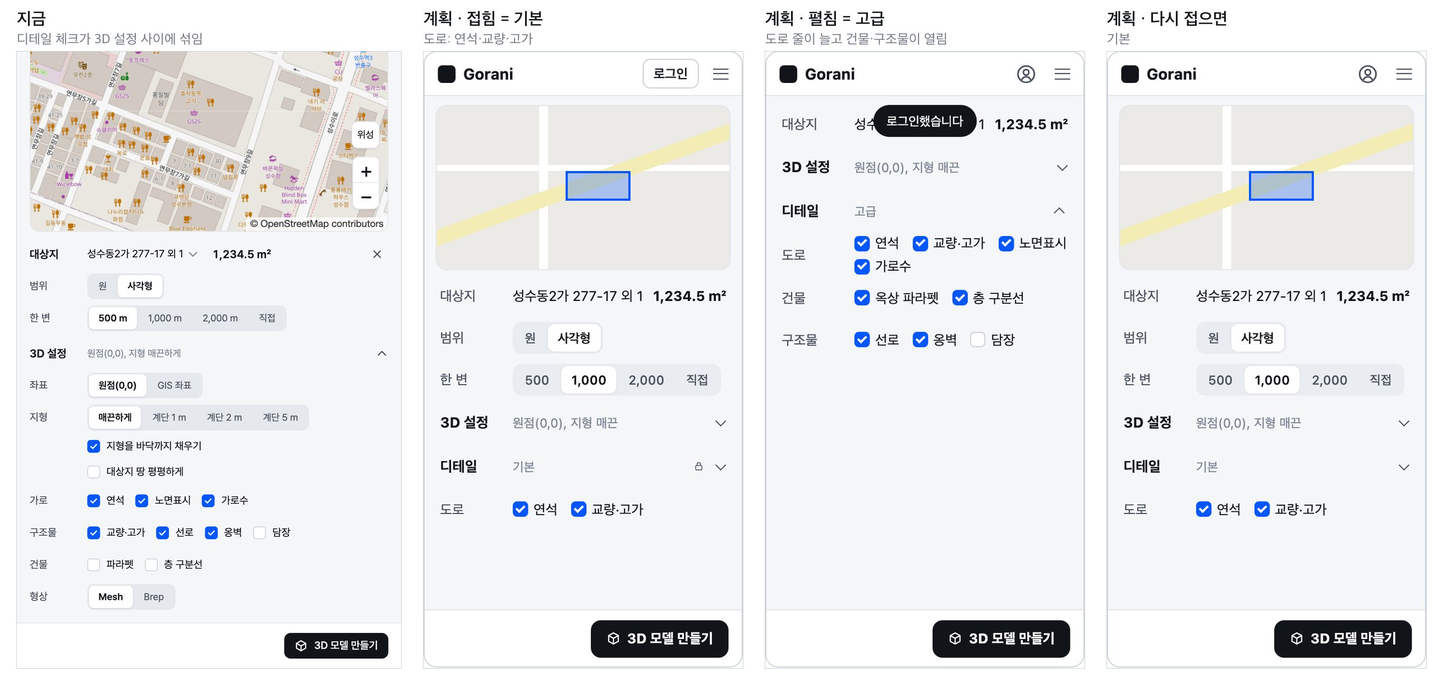
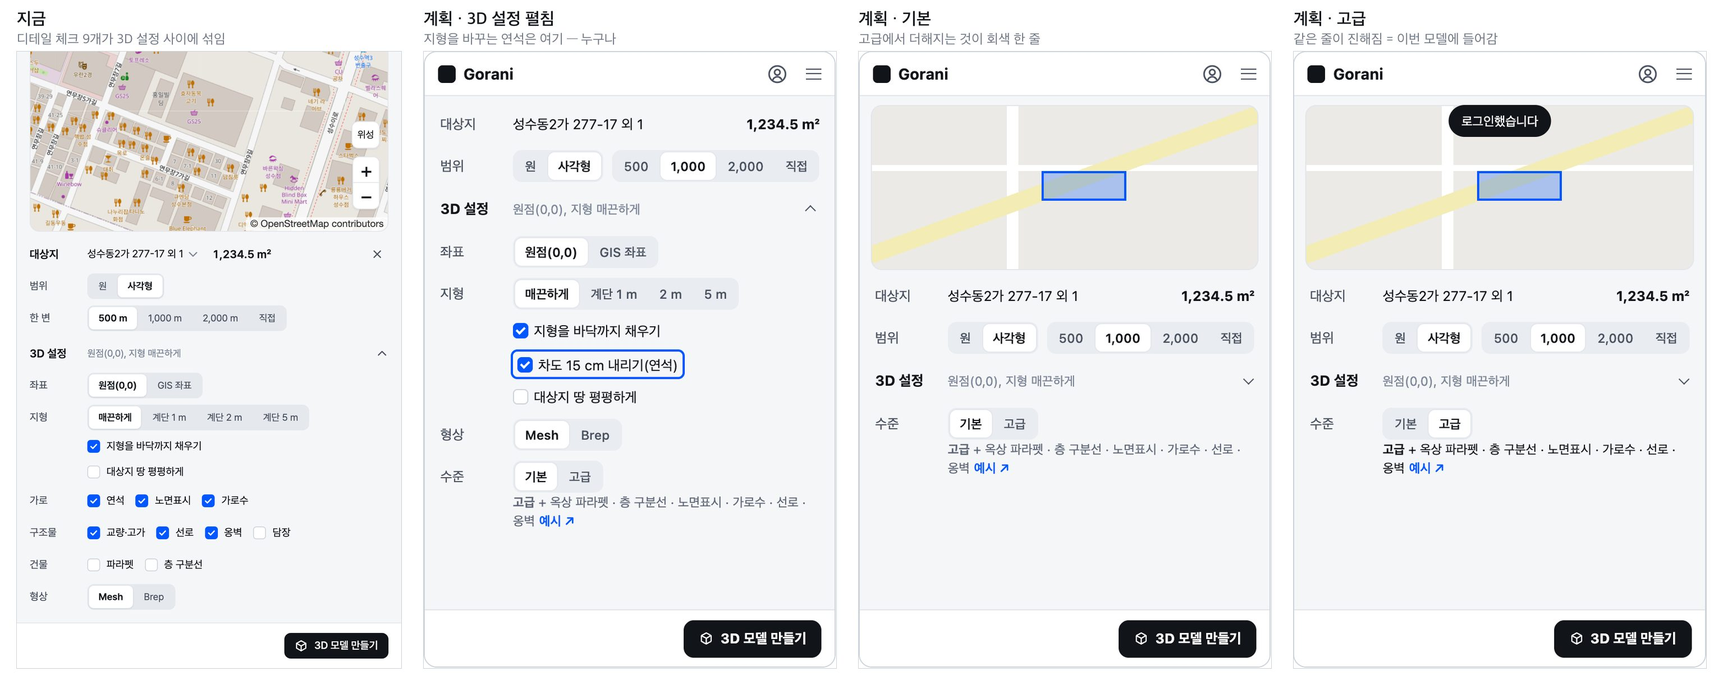
docs: 회원 계획 — 수준 [기본 | 고급](영어 Basic | Advanced) 한 줄과 고급에서 더해지는 것 한 줄, 항목 체크·묶음·담장 뺌, 지형을 바꾸는 연석은 3D 설정 선택 사항, 범위 한 줄, 와이어프레임 v20

diff --git a/docs/preview/account/wireframe.html b/docs/preview/account/wireframe.html
@@ -218,6 +218,23 @@
   .pn .hrow .st.on { color: #111418; }
 </style><style>
   .pn .dlk { color: #5f6878; display: inline-flex; margin-right: 2px; }
+</style><style>
+  .pn .seg b.lkd { color: #5f6878; }
+  .pn .what { margin: -4px 0 6px calc(var(--lbl) + 8px); font-size: 11.5px; line-height: 17px; color: #5f6878; }
+  .pn .what.on { color: #111418; }
+  .pn .what b { font-weight: 700; }
+  .pn .what a { color: #0057ff; font-weight: 600; text-decoration: none; margin-left: 4px; white-space: nowrap; }
+  .pn .chk1 { display: flex; align-items: center; gap: 6px; min-height: 30px; margin-left: calc(var(--lbl) + 8px); }
+  .pn .chk1 .new { box-shadow: 0 0 0 2px #0057ff; border-radius: 4px; padding: 1px 4px; }
+  .web { border: 1px solid #cdd3db; border-radius: 12px; background: #fff; overflow: hidden; color: #111418; font-size: 12.5px; }
+  .web .bar { padding: 6px 10px; font-size: 11px; color: #7d8798; background: #f5f6f8; border-bottom: 1px solid #e3e6eb; }
+  .web .in { padding: 14px; }
+  .web h4 { margin: 0 0 4px; font-size: 15px; }
+  .web .ba { display: grid; grid-template-columns: 1fr 1fr; gap: 8px; margin: 10px 0; }
+  .web .ba div { height: 120px; border-radius: 8px; display: grid; place-items: end start; padding: 6px 8px; color: #fff; font-size: 11px; font-weight: 700; background: linear-gradient(135deg, #cfd4db, #aab2bd); }
+  .web .ba div + div { background: radial-gradient(circle at 22% 70%, #4f9d5d 0 5px, transparent 6px), radial-gradient(circle at 36% 64%, #4f9d5d 0 5px, transparent 6px), radial-gradient(circle at 50% 58%, #4f9d5d 0 5px, transparent 6px), repeating-linear-gradient(90deg, transparent 0 9px, #fff 9px 12px) 0 80%/100% 5px no-repeat, linear-gradient(135deg, #cfd4db, #aab2bd); }
+  .web .li { font-size: 12px; color: #4a5260; line-height: 19px; }
+  .web .btnx { display: inline-flex; margin-top: 10px; height: 32px; align-items: center; padding: 0 12px; border-radius: 8px; background: #111418; color: #fff; font-weight: 700; font-size: 12px; }
 </style></head>
 <body>
 <svg width="0" height="0" style="position:absolute">
@@ -226,4 +243,4 @@
   <symbol id="cube" viewBox="0 0 16 16"><path d="M8 1.8l5.4 3v6.4L8 14.2l-5.4-3V4.8z M2.6 4.8L8 7.8l5.4-3 M8 7.8v6.4" fill="none" stroke="currentColor" stroke-width="1.4" stroke-linejoin="round"/></symbol>
 </svg>
 
-<h1>Gorani 회원·고급 디테일 — 와이어프레임 v19</h1><p class="lead">꾸밈과 안내 문구 없이 지금 패널의 줄·단추 꼴만 씁니다. 손님은 머리줄 [로그인], 회원은 그 자리에 계정 기호. 디테일은 3D 설정과 같은 접는 줄 — 펼치면 고급(늘어남), 접으면 기본. 요약에 기본·고급이 늘 보입니다. 로딩·결과 화면은 지금 그대로.</p><h2>A. 고급 디테일</h2><div class="flow"><div class="step"><p class="cap">A1 손님 · 지도 화면</p><div class="pn"><div class="hd"><span class="logo"></span><span class="wm">Gorani</span><span class="login">로그인</span><span class="burger"></span></div><div class="map"><i></i></div><div class="tray" style="padding-top:4px"><div class="trow"><span class="lbl">대상지</span><span class="val">성수동2가 277-17 외 1</span><span class="area">1,234.5 m²</span></div><div class="trow"><span class="lbl">범위</span><span class="seg"><b>원</b><b class="on">사각형</b></span></div><div class="trow"><span class="lbl">한 변</span><span class="seg"><b>500</b><b class="on">1,000</b><b>2,000</b><b>직접</b></span></div><div class="sec"><span class="t">3D 설정</span><span class="s">원점(0,0), 지형 매끈</span><span class="chev"></span></div><div class="sec"><span class="t">디테일</span><span class="s">기본</span><span class="dlk"><svg width="10" height="10"><use href="#lock"/></svg></span><span class="chev"></span></div><div class="trow"><span class="lbl">도로</span><span class="chks"><span class="ck"><span class="box on"></span>연석</span><span class="ck"><span class="box on"></span>교량·고가</span></span></div></div><div class="foot"><span class="mk"><svg width="13" height="13"><use href="#cube"/></svg>3D 모델 만들기</span></div></div><p class="note">디테일은 3D 설정과 같은 접는 줄. 접힘 = 기본(도로: 연석·교량·고가). 손님은 ▾ 앞에 자물쇠.</p></div><div class="step"><p class="cap">A2 손님이 펼치면</p><div class="pn"><div class="hd"><span class="logo"></span><span class="wm">Gorani</span><span class="login">로그인</span><span class="burger"></span></div><div class="map"><i></i></div><div class="tray" style="padding-top:4px"><div class="trow"><span class="lbl">대상지</span><span class="val">성수동2가 277-17 외 1</span><span class="area">1,234.5 m²</span></div><div class="trow"><span class="lbl">범위</span><span class="seg"><b>원</b><b class="on">사각형</b></span></div><div class="trow"><span class="lbl">한 변</span><span class="seg"><b>500</b><b class="on">1,000</b><b>2,000</b><b>직접</b></span></div><div class="sec"><span class="t">3D 설정</span><span class="s">원점(0,0), 지형 매끈</span><span class="chev"></span></div><div class="sec"><span class="t">디테일</span><span class="s">기본</span><span class="dlk"><svg width="10" height="10"><use href="#lock"/></svg></span><span class="chev"></span></div><div class="trow"><span class="lbl">도로</span><span class="chks"><span class="ck"><span class="box on"></span>연석</span><span class="ck"><span class="box on"></span>교량·고가</span></span></div></div><div class="foot"><span class="mk"><svg width="13" height="13"><use href="#cube"/></svg>3D 모델 만들기</span></div><div class="veil"><div class="dlg min"><span class="x">✕</span><h4>로그인</h4><div class="pbtn"><span class="gg"></span>구글로 로그인</div><div class="sbtn">로그인 없이 써 보기 (3회)</div></div></div></div><p class="note">펼치기 = 고급이라 로그인 창.</p></div><div class="step"><p class="cap">A3 브라우저에서 로그인</p><div class="pn"><div class="hd"><span class="logo"></span><span class="wm">Gorani</span><span class="login">로그인</span><span class="burger"></span></div><div class="map"><i></i></div><div class="tray" style="padding-top:4px"><div class="trow"><span class="lbl">대상지</span><span class="val">성수동2가 277-17 외 1</span><span class="area">1,234.5 m²</span></div><div class="trow"><span class="lbl">범위</span><span class="seg"><b>원</b><b class="on">사각형</b></span></div><div class="trow"><span class="lbl">한 변</span><span class="seg"><b>500</b><b class="on">1,000</b><b>2,000</b><b>직접</b></span></div><div class="sec"><span class="t">3D 설정</span><span class="s">원점(0,0), 지형 매끈</span><span class="chev"></span></div><div class="sec"><span class="t">디테일</span><span class="s">기본</span><span class="dlk"><svg width="10" height="10"><use href="#lock"/></svg></span><span class="chev"></span></div><div class="trow"><span class="lbl">도로</span><span class="chks"><span class="ck"><span class="box on"></span>연석</span><span class="ck"><span class="box on"></span>교량·고가</span></span></div></div><div class="foot"><span class="mk"><svg width="13" height="13"><use href="#cube"/></svg>3D 모델 만들기</span></div><div class="veil"><div class="dlg min" style="text-align:center"><div class="spin"></div><h4 style="margin:0 0 4px">브라우저에서 로그인 중</h4><div class="sbtn">취소</div></div></div></div><p class="note">로그인은 브라우저가 합니다.</p></div><div class="step"><p class="cap">A4 돌아오면 — 펼쳐진 채로(고급)</p><div class="pn"><div class="hd"><span class="logo"></span><span class="wm">Gorani</span><span class="acct"><svg width="18" height="18" viewBox="0 0 16 16" fill="none" stroke="currentColor" stroke-width="1.3"><circle cx="8" cy="8" r="6.6"/><circle cx="8" cy="6.5" r="2.2"/><path d="M4.4 12.4c.9-1.5 2.1-2.3 3.6-2.3s2.7.8 3.6 2.3" stroke-linecap="round"/></svg></span><span class="burger"></span></div><div class="tray" style="padding-top:6px"><div class="trow"><span class="lbl">대상지</span><span class="val">성수동2가 277-17 외 1</span><span class="area">1,234.5 m²</span></div><div class="sec"><span class="t">3D 설정</span><span class="s">원점(0,0), 지형 매끈</span><span class="chev"></span></div><div class="sec"><span class="t">디테일</span><span class="s">고급</span><span class="chev up"></span></div><div class="trow"><span class="lbl">도로</span><span class="chks"><span class="ck"><span class="box on"></span>연석</span><span class="ck"><span class="box on"></span>교량·고가</span><span class="ck"><span class="box on"></span>노면표시</span><span class="ck"><span class="box on"></span>가로수</span></span></div><div class="trow"><span class="lbl">건물</span><span class="chks"><span class="ck"><span class="box on"></span>옥상 파라펫</span><span class="ck"><span class="box on"></span>층 구분선</span></span></div><div class="trow"><span class="lbl">구조물</span><span class="chks"><span class="ck"><span class="box on"></span>선로</span><span class="ck"><span class="box on"></span>옹벽</span><span class="ck"><span class="box"></span>담장</span></span></div></div><div class="foot"><span class="mk"><svg width="13" height="13"><use href="#cube"/></svg>3D 모델 만들기</span></div><div class="toast">로그인했습니다</div></div><p class="note">줄 요약이 '고급'으로. 도로 줄에 노면표시·가로수가 붙고 건물·구조물 줄이 열립니다.</p></div><div class="step"><p class="cap">A5 회원이 접으면 — 기본</p><div class="pn"><div class="hd"><span class="logo"></span><span class="wm">Gorani</span><span class="acct"><svg width="18" height="18" viewBox="0 0 16 16" fill="none" stroke="currentColor" stroke-width="1.3"><circle cx="8" cy="8" r="6.6"/><circle cx="8" cy="6.5" r="2.2"/><path d="M4.4 12.4c.9-1.5 2.1-2.3 3.6-2.3s2.7.8 3.6 2.3" stroke-linecap="round"/></svg></span><span class="burger"></span></div><div class="map"><i></i></div><div class="tray" style="padding-top:4px"><div class="trow"><span class="lbl">대상지</span><span class="val">성수동2가 277-17 외 1</span><span class="area">1,234.5 m²</span></div><div class="trow"><span class="lbl">범위</span><span class="seg"><b>원</b><b class="on">사각형</b></span></div><div class="trow"><span class="lbl">한 변</span><span class="seg"><b>500</b><b class="on">1,000</b><b>2,000</b><b>직접</b></span></div><div class="sec"><span class="t">3D 설정</span><span class="s">원점(0,0), 지형 매끈</span><span class="chev"></span></div><div class="sec"><span class="t">디테일</span><span class="s">기본</span><span class="chev"></span></div><div class="trow"><span class="lbl">도로</span><span class="chks"><span class="ck"><span class="box on"></span>연석</span><span class="ck"><span class="box on"></span>교량·고가</span></span></div></div><div class="foot"><span class="mk"><svg width="13" height="13"><use href="#cube"/></svg>3D 모델 만들기</span></div></div><p class="note">▴를 눌러 접으면 기본으로(요약 '기본'). 펼침 = 고급, 접힘 = 기본.</p></div></div><h2>B. 처음 만들기·로딩·완료</h2><div class="flow"><div class="step"><p class="cap">B1 처음 [3D 모델 만들기] (한 번만)</p><div class="pn"><div class="hd"><span class="logo"></span><span class="wm">Gorani</span><span class="login">로그인</span><span class="burger"></span></div><div class="map"><i></i></div><div class="tray" style="padding-top:4px"><div class="trow"><span class="lbl">대상지</span><span class="val">성수동2가 277-17 외 1</span><span class="area">1,234.5 m²</span></div><div class="trow"><span class="lbl">범위</span><span class="seg"><b>원</b><b class="on">사각형</b></span></div><div class="trow"><span class="lbl">한 변</span><span class="seg"><b>500</b><b class="on">1,000</b><b>2,000</b><b>직접</b></span></div><div class="sec"><span class="t">3D 설정</span><span class="s">원점(0,0), 지형 매끈</span><span class="chev"></span></div><div class="sec"><span class="t">디테일</span><span class="s">기본</span><span class="dlk"><svg width="10" height="10"><use href="#lock"/></svg></span><span class="chev"></span></div><div class="trow"><span class="lbl">도로</span><span class="chks"><span class="ck"><span class="box on"></span>연석</span><span class="ck"><span class="box on"></span>교량·고가</span></span></div></div><div class="foot"><span class="mk"><svg width="13" height="13"><use href="#cube"/></svg>3D 모델 만들기</span></div><div class="veil"><div class="dlg min"><span class="x">✕</span><h4>로그인</h4><div class="pbtn"><span class="gg"></span>구글로 로그인</div><div class="sbtn">로그인 없이 만들기</div></div></div></div><p class="note">같은 로그인 창. 고르면 바로 만듭니다.</p></div><div class="step"><p class="cap">B2 로딩 · 지금 화면 그대로</p><div class="pn"><div class="hd"><span class="logo"></span><span class="wm">Gorani</span><span class="login off">로그인</span><span class="burger"></span></div><div class="runcard"><div class="top"><h4>3D 모델 만드는 중</h4><span class="cancel"><i></i>취소</span></div><div class="meta">성수동2가 277-17 외 1, 1,234.5 m², 사각형 한 변 2,000 m · 기본</div><div class="trk"><div class="fl" style="width:50%"></div><span class="rn" style="left:calc((100% - 48px) * 0.5)"><svg xmlns="http://www.w3.org/2000/svg" width="48" height="36" viewBox="0 0 64 48"><g fill="none" stroke="currentColor" stroke-linecap="round" stroke-linejoin="round"><path d="M21.00 25.60L15.89 34.19" stroke-width="5"/><path d="M15.89 34.19L2.92 35.15" stroke-width="2.6"/><path d="M41.00 27.60L46.03 35.06" stroke-width="3.6"/><path d="M46.03 35.06L52.74 45.01" stroke-width="2.4"/><path d="M21.00 25.60L14.84 33.48" stroke-width="5"/><path d="M14.84 33.48L2.97 38.77" stroke-width="2.6"/><path d="M41.00 27.60L47.02 34.29" stroke-width="3.6"/><path d="M47.02 34.29L55.05 43.21" stroke-width="2.4"/></g><g fill="currentColor" transform="translate(0 1.60)"><path d="M13 21C13 14 20 11 27 13C33 15 39 17 44 19C49 21 49 29 43 30.5C35 32 26 31 19 29.5C15 28.5 13 25 13 21Z"/><path d="M40 21C43 15 47 11 51 9L56 13C52 17 48 23 46 29Z"/><path d="M49 7C53 4.5 58 6.5 62 11C63.5 13 62.5 15 60.5 15H54C50.5 15 48 11.5 49 7Z"/><path d="M51 8C49 3 45.5 0 42 0.5C42 4 45 8 49.5 11Z"/><path d="M14 17C12 14.5 11 12.5 11.5 11C13.5 12 15 14 16 16Z"/></g></svg></span></div><div class="pm"><span><b>50</b> %</span><span>0:14</span></div><ul class="ph"><li><span class="okk">✓</span>건물과 지형 불러오기<span class="det">건물 1,842동</span></li><li class="run"><span class="dot"></span>3D 모델 만들기</li><li class="pend"><span class="ring"></span>Rhino 파일에 넣기</li></ul><div class="rnote">Rhino 안에서 만들어 Rhino 화면이 잠깐씩 멈출 수 있습니다.</div></div><div class="logline">▸ 로그 자세히 보기 (1줄)</div></div><p class="note">만드는 동안 패널은 엔진을 기다려 다른 단추를 받지 않습니다 — 머리줄 [로그인]도 잠깁니다.</p></div><div class="step"><p class="cap">B3 생성 완료 — 지금과 같음</p><div class="pn"><div class="hd"><span class="logo"></span><span class="wm">Gorani</span><span class="login">로그인</span><span class="burger"></span></div><div class="card2"><h4>3D 모델 생성 완료 <span class="m">0:08</span><span class="sp"></span><span class="btnw" style="margin:0">폴더 열기</span></h4><div class="m">성수동2가 277-17 외 1, 1,234.5 m²</div></div><div class="card2"><h4>2D 자료도 만들까요?<span class="sp"></span><span class="btnw" style="margin:0">2D 자료 만들기</span></h4><div class="opt2"><span>▢</span><span>베이스맵<small>Illustrator 레이어 도면 (.ai)</small></span></div><div class="opt2"><span>▦</span><span>다이어그램<small>현황도와 분석도 (.svg, .ai)</small></span></div><div class="opt2"><span>▤</span><span>조서<small>필지와 건축물 표 (엑셀 CSV)</small></span></div></div></div><p class="note">결과 화면은 그대로. 손님이면 머리줄 [로그인]만.</p></div></div><h2>C. 생성 기록 — 회원만</h2><div class="flow"><div class="step"><p class="cap">C1 손님 · 지도(대상지 없음)</p><div class="pn"><div class="hd"><span class="logo"></span><span class="wm">Gorani</span><span class="login">로그인</span><span class="burger"></span></div><div class="map"></div><div class="tray"><div class="rech">최근 결과<span class="sp"></span></div><div class="rec"><span class="nm">성수동2가 277-17 외 1</span><span class="mt">3D, 2D · 11-14</span></div><div class="rec"><span class="nm">을지로3가 구역</span><span class="mt">3D · 11-14</span></div><div class="rec"><span class="nm">Shibuya, Tokyo</span><span class="mt">3D · 11-10</span></div></div><div class="foot"><span class="mk" style="opacity:.45"><svg width="13" height="13"><use href="#cube"/></svg>3D 모델 만들기</span></div></div><p class="note">손님에게는 생성 기록이 없습니다. '최근 결과'(지금 기능)는 그대로.</p></div><div class="step"><p class="cap">C2 회원 · 지도(대상지 없음)</p><div class="pn"><div class="hd"><span class="logo"></span><span class="wm">Gorani</span><span class="acct"><svg width="18" height="18" viewBox="0 0 16 16" fill="none" stroke="currentColor" stroke-width="1.3"><circle cx="8" cy="8" r="6.6"/><circle cx="8" cy="6.5" r="2.2"/><path d="M4.4 12.4c.9-1.5 2.1-2.3 3.6-2.3s2.7.8 3.6 2.3" stroke-linecap="round"/></svg></span><span class="burger"></span></div><div class="map"></div><div class="tray"><div class="rech">최근 결과<span class="sp"></span><a>생성 기록 ›</a></div><div class="rec"><span class="nm">성수동2가 277-17 외 1</span><span class="mt">3D, 2D · 11-14</span></div><div class="rec"><span class="nm">을지로3가 구역</span><span class="mt">3D · 11-14</span></div><div class="rec"><span class="nm">Shibuya, Tokyo</span><span class="mt">3D · 11-10</span></div></div><div class="foot"><span class="mk" style="opacity:.45"><svg width="13" height="13"><use href="#cube"/></svg>3D 모델 만들기</span></div></div><p class="note">회원에게만 '생성 기록 ›'.</p></div><div class="step"><p class="cap">C3 회원 · 생성 기록</p><div class="pn"><div class="hd"><span class="logo"></span><span class="wm">Gorani</span><span class="acct"><svg width="18" height="18" viewBox="0 0 16 16" fill="none" stroke="currentColor" stroke-width="1.3"><circle cx="8" cy="8" r="6.6"/><circle cx="8" cy="6.5" r="2.2"/><path d="M4.4 12.4c.9-1.5 2.1-2.3 3.6-2.3s2.7.8 3.6 2.3" stroke-linecap="round"/></svg></span><span class="burger"></span></div><div class="scr"><span class="back">← 지도로</span><span class="ttl">생성 기록</span></div><div class="segw" style="margin-top:10px"><span class="seg"><b class="on">전체</b><b>★</b></span></div><div class="grpd">오늘</div><div class="hrow"><span class="th"><i></i></span><span class="tx"><div class="nm">성수동2가 277-17 외 1</div><div class="mt">15:02 · 사각형 1 km · 고급</div></span><span class="st on">★</span></div><div class="hrow"><span class="th"><i></i></span><span class="tx"><div class="nm">을지로3가 구역</div><div class="mt">11:40 · 사각형 2 km · 기본</div></span><span class="st">☆</span></div><div class="grpd">이번 주</div><div class="hrow"><span class="th"><i></i></span><span class="tx"><div class="nm">연남동 239-5</div><div class="mt">11-09 · 원 500 m · 고급</div></span><span class="st">☆</span></div><div class="hrow"><span class="th"><i></i></span><span class="tx"><div class="nm">Shibuya, Tokyo</div><div class="mt">11-10 · 사각형 1 km · 기본</div></span><span class="st on">★</span></div></div><p class="note">검색 없음. 기록마다 오른쪽 ☆로 즐겨찾기, 위 [전체 | ★]로 거르기. PC 구분 없이 아이디 하나에 모은 기록.</p></div></div><h2>D. 계정</h2><div class="flow"><div class="step"><p class="cap">D1 회원 · 계정 기호를 누르면</p><div class="pn"><div class="hd"><span class="logo"></span><span class="wm">Gorani</span><span class="acct on"><svg width="18" height="18" viewBox="0 0 16 16" fill="none" stroke="currentColor" stroke-width="1.3"><circle cx="8" cy="8" r="6.6"/><circle cx="8" cy="6.5" r="2.2"/><path d="M4.4 12.4c.9-1.5 2.1-2.3 3.6-2.3s2.7.8 3.6 2.3" stroke-linecap="round"/></svg></span><span class="burger"></span></div><div class="map"><i></i></div><div class="tray" style="padding-top:4px"><div class="trow"><span class="lbl">대상지</span><span class="val">성수동2가 277-17 외 1</span><span class="area">1,234.5 m²</span></div><div class="trow"><span class="lbl">범위</span><span class="seg"><b>원</b><b class="on">사각형</b></span></div><div class="trow"><span class="lbl">한 변</span><span class="seg"><b>500</b><b class="on">1,000</b><b>2,000</b><b>직접</b></span></div><div class="sec"><span class="t">3D 설정</span><span class="s">원점(0,0), 지형 매끈</span><span class="chev"></span></div><div class="sec"><span class="t">디테일</span><span class="s">기본</span><span class="chev"></span></div><div class="trow"><span class="lbl">도로</span><span class="chks"><span class="ck"><span class="box on"></span>연석</span><span class="ck"><span class="box on"></span>교량·고가</span></span></div></div><div class="foot"><span class="mk"><svg width="13" height="13"><use href="#cube"/></svg>3D 모델 만들기</span></div><div class="acpop"><div class="r"><span class="v">name@gmail.com</span><span class="btnw" style="margin:0">로그아웃</span></div><div class="r"><span class="v">생성 기록</span><span class="m">23 ›</span></div></div></div><p class="note">메일·[로그아웃]과 생성 기록. 더보기 메뉴(설정·도움)는 지금과 같습니다.</p></div></div></body></html>
+<h1>Gorani 회원·고급 모델 — 와이어프레임 v20</h1><p class="lead">꾸밈과 안내 문구 없이 지금 패널의 줄·단추 꼴만 씁니다. 손님은 머리줄 [로그인], 회원은 그 자리에 계정 기호. 3D 설정 아래 수준 [기본 | 고급](영어 Basic | Advanced) 한 줄과, 고급에서 더해지는 것을 적은 한 줄. 항목 체크·묶음은 없고 만든 뒤 레이어로 끕니다. 지형 자체를 바꾸는 것(연석)은 3D 설정 안 선택 사항. 범위는 한 줄로 합쳐 트레이는 지금처럼 4줄.</p><h2>A. 수준 — 고급</h2><div class="flow"><div class="step"><p class="cap">A1 손님 · 지도 화면</p><div class="pn"><div class="hd"><span class="logo"></span><span class="wm">Gorani</span><span class="login">로그인</span><span class="burger"></span></div><div class="map"><i></i></div><div class="tray" style="padding-top:4px"><div class="trow"><span class="lbl">대상지</span><span class="val">성수동2가 277-17 외 1</span><span class="area">1,234.5 m²</span></div><div class="trow"><span class="lbl">범위</span><span class="seg"><b>원</b><b class="on">사각형</b></span><span class="seg"><b>500</b><b class="on">1,000</b><b>2,000</b><b>직접</b></span></div><div class="sec"><span class="t">3D 설정</span><span class="s">원점(0,0), 지형 매끈하게</span><span class="chev"></span></div><div class="trow"><span class="lbl">수준</span><span class="seg"><b class="on">기본</b><b class="lkd"><svg width="10" height="10"><use href="#lock"/></svg>고급</b></span></div><div class="what"><b>고급</b> + 옥상 파라펫 · 층 구분선 · 노면표시 · 가로수 · 선로 · 옹벽<a>예시 ↗</a></div></div><div class="foot"><span class="mk"><svg width="13" height="13"><use href="#cube"/></svg>3D 모델 만들기</span></div></div><p class="note">수준 [기본 | 고급]. 아래 한 줄에 고급에서 더해지는 것 — 회색 = 이번 모델에 안 들어감. 손님은 고급에 자물쇠.</p></div><div class="step"><p class="cap">A2 손님이 고급을 누르면</p><div class="pn"><div class="hd"><span class="logo"></span><span class="wm">Gorani</span><span class="login">로그인</span><span class="burger"></span></div><div class="map"><i></i></div><div class="tray" style="padding-top:4px"><div class="trow"><span class="lbl">대상지</span><span class="val">성수동2가 277-17 외 1</span><span class="area">1,234.5 m²</span></div><div class="trow"><span class="lbl">범위</span><span class="seg"><b>원</b><b class="on">사각형</b></span><span class="seg"><b>500</b><b class="on">1,000</b><b>2,000</b><b>직접</b></span></div><div class="sec"><span class="t">3D 설정</span><span class="s">원점(0,0), 지형 매끈하게</span><span class="chev"></span></div><div class="trow"><span class="lbl">수준</span><span class="seg"><b class="on">기본</b><b class="lkd"><svg width="10" height="10"><use href="#lock"/></svg>고급</b></span></div><div class="what"><b>고급</b> + 옥상 파라펫 · 층 구분선 · 노면표시 · 가로수 · 선로 · 옹벽<a>예시 ↗</a></div></div><div class="foot"><span class="mk"><svg width="13" height="13"><use href="#cube"/></svg>3D 모델 만들기</span></div><div class="veil"><div class="dlg min"><span class="x">✕</span><h4>로그인</h4><div class="pbtn"><span class="gg"></span>구글로 로그인</div><div class="sbtn">로그인 없이 써 보기 (3회)</div></div></div></div><p class="note">로그인 창.</p></div><div class="step"><p class="cap">A3 브라우저에서 로그인</p><div class="pn"><div class="hd"><span class="logo"></span><span class="wm">Gorani</span><span class="login">로그인</span><span class="burger"></span></div><div class="map"><i></i></div><div class="tray" style="padding-top:4px"><div class="trow"><span class="lbl">대상지</span><span class="val">성수동2가 277-17 외 1</span><span class="area">1,234.5 m²</span></div><div class="trow"><span class="lbl">범위</span><span class="seg"><b>원</b><b class="on">사각형</b></span><span class="seg"><b>500</b><b class="on">1,000</b><b>2,000</b><b>직접</b></span></div><div class="sec"><span class="t">3D 설정</span><span class="s">원점(0,0), 지형 매끈하게</span><span class="chev"></span></div><div class="trow"><span class="lbl">수준</span><span class="seg"><b class="on">기본</b><b class="lkd"><svg width="10" height="10"><use href="#lock"/></svg>고급</b></span></div><div class="what"><b>고급</b> + 옥상 파라펫 · 층 구분선 · 노면표시 · 가로수 · 선로 · 옹벽<a>예시 ↗</a></div></div><div class="foot"><span class="mk"><svg width="13" height="13"><use href="#cube"/></svg>3D 모델 만들기</span></div><div class="veil"><div class="dlg min" style="text-align:center"><div class="spin"></div><h4 style="margin:0 0 4px">브라우저에서 로그인 중</h4><div class="sbtn">취소</div></div></div></div><p class="note">로그인은 브라우저가 합니다.</p></div><div class="step"><p class="cap">A4 돌아오면 — 고급</p><div class="pn"><div class="hd"><span class="logo"></span><span class="wm">Gorani</span><span class="acct"><svg width="18" height="18" viewBox="0 0 16 16" fill="none" stroke="currentColor" stroke-width="1.3"><circle cx="8" cy="8" r="6.6"/><circle cx="8" cy="6.5" r="2.2"/><path d="M4.4 12.4c.9-1.5 2.1-2.3 3.6-2.3s2.7.8 3.6 2.3" stroke-linecap="round"/></svg></span><span class="burger"></span></div><div class="map"><i></i></div><div class="tray" style="padding-top:4px"><div class="trow"><span class="lbl">대상지</span><span class="val">성수동2가 277-17 외 1</span><span class="area">1,234.5 m²</span></div><div class="trow"><span class="lbl">범위</span><span class="seg"><b>원</b><b class="on">사각형</b></span><span class="seg"><b>500</b><b class="on">1,000</b><b>2,000</b><b>직접</b></span></div><div class="sec"><span class="t">3D 설정</span><span class="s">원점(0,0), 지형 매끈하게</span><span class="chev"></span></div><div class="trow"><span class="lbl">수준</span><span class="seg"><b>기본</b><b class="on">고급</b></span></div><div class="what on"><b>고급</b> + 옥상 파라펫 · 층 구분선 · 노면표시 · 가로수 · 선로 · 옹벽<a>예시 ↗</a></div></div><div class="foot"><span class="mk"><svg width="13" height="13"><use href="#cube"/></svg>3D 모델 만들기</span></div><div class="toast">로그인했습니다</div></div><p class="note">고급이 눌린 채로. 아래 줄이 진해짐 = 이번 모델에 들어감.</p></div><div class="step"><p class="cap">A5 회원 · 기본</p><div class="pn"><div class="hd"><span class="logo"></span><span class="wm">Gorani</span><span class="acct"><svg width="18" height="18" viewBox="0 0 16 16" fill="none" stroke="currentColor" stroke-width="1.3"><circle cx="8" cy="8" r="6.6"/><circle cx="8" cy="6.5" r="2.2"/><path d="M4.4 12.4c.9-1.5 2.1-2.3 3.6-2.3s2.7.8 3.6 2.3" stroke-linecap="round"/></svg></span><span class="burger"></span></div><div class="map"><i></i></div><div class="tray" style="padding-top:4px"><div class="trow"><span class="lbl">대상지</span><span class="val">성수동2가 277-17 외 1</span><span class="area">1,234.5 m²</span></div><div class="trow"><span class="lbl">범위</span><span class="seg"><b>원</b><b class="on">사각형</b></span><span class="seg"><b>500</b><b class="on">1,000</b><b>2,000</b><b>직접</b></span></div><div class="sec"><span class="t">3D 설정</span><span class="s">원점(0,0), 지형 매끈하게</span><span class="chev"></span></div><div class="trow"><span class="lbl">수준</span><span class="seg"><b class="on">기본</b><b>고급</b></span></div><div class="what"><b>고급</b> + 옥상 파라펫 · 층 구분선 · 노면표시 · 가로수 · 선로 · 옹벽<a>예시 ↗</a></div></div><div class="foot"><span class="mk"><svg width="13" height="13"><use href="#cube"/></svg>3D 모델 만들기</span></div></div><p class="note">회원은 자물쇠 없음. 기본이면 같은 줄이 회색.</p></div><div class="step"><p class="cap">A6 웹 — 예시 ↗</p><div class="web"><div class="bar">gorani.site/#detail — 패널의 '예시 ↗'</div><div class="in"><h4>고급 모델</h4><div class="ba"><div>기본</div><div>고급</div></div><div class="li">옥상 파라펫 · 층 구분선 — 매스가 건물처럼<br>노면표시 · 가로수 — 서울 전역, 그 밖은 OSM<br>선로 · 옹벽 — 철도변·경사지</div><span class="btnx">구글로 무료 로그인</span></div></div><p class="note">그림 비교는 웹에. 인스타·홈 '디테일' 칸과 같은 그림.</p></div></div><h2>B. 3D 설정 — 지형을 바꾸는 선택 사항</h2><div class="flow"><div class="step"><p class="cap">B1 3D 설정을 펼치면</p><div class="pn"><div class="hd"><span class="logo"></span><span class="wm">Gorani</span><span class="acct"><svg width="18" height="18" viewBox="0 0 16 16" fill="none" stroke="currentColor" stroke-width="1.3"><circle cx="8" cy="8" r="6.6"/><circle cx="8" cy="6.5" r="2.2"/><path d="M4.4 12.4c.9-1.5 2.1-2.3 3.6-2.3s2.7.8 3.6 2.3" stroke-linecap="round"/></svg></span><span class="burger"></span></div><div class="tray" style="padding-top:6px"><div class="trow"><span class="lbl">대상지</span><span class="val">성수동2가 277-17 외 1</span><span class="area">1,234.5 m²</span></div><div class="trow"><span class="lbl">범위</span><span class="seg"><b>원</b><b class="on">사각형</b></span><span class="seg"><b>500</b><b class="on">1,000</b><b>2,000</b><b>직접</b></span></div><div class="sec"><span class="t">3D 설정</span><span class="s">원점(0,0), 지형 매끈하게</span><span class="chev up"></span></div><div class="trow"><span class="lbl">좌표</span><span class="seg"><b class="on">원점(0,0)</b><b>GIS 좌표</b></span></div><div class="trow"><span class="lbl">지형</span><span class="seg"><b class="on">매끈하게</b><b>계단 1 m</b><b>2 m</b><b>5 m</b></span></div><div class="chk1"><span class="ck"><span class="box on"></span>지형을 바닥까지 채우기</span></div><div class="chk1"><span class="new"><span class="ck"><span class="box on"></span>차도 15 cm 내리기(연석)</span></span></div><div class="chk1"><span class="ck"><span class="box"></span>대상지 땅 평평하게</span></div><div class="trow"><span class="lbl">형상</span><span class="seg"><b class="on">Mesh</b><b>Brep</b></span></div><div class="trow"><span class="lbl">수준</span><span class="seg"><b class="on">기본</b><b>고급</b></span></div><div class="what"><b>고급</b> + 옥상 파라펫 · 층 구분선 · 노면표시 · 가로수 · 선로 · 옹벽<a>예시 ↗</a></div></div><div class="foot"><span class="mk"><svg width="13" height="13"><use href="#cube"/></svg>3D 모델 만들기</span></div></div><p class="note">지형 자체를 바꾸는 것은 수준과 따로, 누구나 고릅니다. 연석(차도 15 cm 내림)이 여기로(파란 테두리 = 새로 온 줄).</p></div></div><h2>C. 처음 만들기·로딩·완료</h2><div class="flow"><div class="step"><p class="cap">C1 처음 [3D 모델 만들기] (한 번만)</p><div class="pn"><div class="hd"><span class="logo"></span><span class="wm">Gorani</span><span class="login">로그인</span><span class="burger"></span></div><div class="map"><i></i></div><div class="tray" style="padding-top:4px"><div class="trow"><span class="lbl">대상지</span><span class="val">성수동2가 277-17 외 1</span><span class="area">1,234.5 m²</span></div><div class="trow"><span class="lbl">범위</span><span class="seg"><b>원</b><b class="on">사각형</b></span><span class="seg"><b>500</b><b class="on">1,000</b><b>2,000</b><b>직접</b></span></div><div class="sec"><span class="t">3D 설정</span><span class="s">원점(0,0), 지형 매끈하게</span><span class="chev"></span></div><div class="trow"><span class="lbl">수준</span><span class="seg"><b class="on">기본</b><b class="lkd"><svg width="10" height="10"><use href="#lock"/></svg>고급</b></span></div><div class="what"><b>고급</b> + 옥상 파라펫 · 층 구분선 · 노면표시 · 가로수 · 선로 · 옹벽<a>예시 ↗</a></div></div><div class="foot"><span class="mk"><svg width="13" height="13"><use href="#cube"/></svg>3D 모델 만들기</span></div><div class="veil"><div class="dlg min"><span class="x">✕</span><h4>로그인</h4><div class="pbtn"><span class="gg"></span>구글로 로그인</div><div class="sbtn">로그인 없이 만들기</div></div></div></div><p class="note">같은 로그인 창. 고르면 바로 만듭니다.</p></div><div class="step"><p class="cap">C2 로딩 · 손님</p><div class="pn"><div class="hd"><span class="logo"></span><span class="wm">Gorani</span><span class="login off">로그인</span><span class="burger"></span></div><div class="runcard"><div class="top"><h4>3D 모델 만드는 중</h4><span class="cancel"><i></i>취소</span></div><div class="meta">성수동2가 277-17 외 1, 1,234.5 m², 사각형 한 변 2,000 m</div><div class="trk"><div class="fl" style="width:50%"></div><span class="rn" style="left:calc((100% - 48px) * 0.5)"><svg xmlns="http://www.w3.org/2000/svg" width="48" height="36" viewBox="0 0 64 48"><g fill="none" stroke="currentColor" stroke-linecap="round" stroke-linejoin="round"><path d="M21.00 25.60L15.89 34.19" stroke-width="5"/><path d="M15.89 34.19L2.92 35.15" stroke-width="2.6"/><path d="M41.00 27.60L46.03 35.06" stroke-width="3.6"/><path d="M46.03 35.06L52.74 45.01" stroke-width="2.4"/><path d="M21.00 25.60L14.84 33.48" stroke-width="5"/><path d="M14.84 33.48L2.97 38.77" stroke-width="2.6"/><path d="M41.00 27.60L47.02 34.29" stroke-width="3.6"/><path d="M47.02 34.29L55.05 43.21" stroke-width="2.4"/></g><g fill="currentColor" transform="translate(0 1.60)"><path d="M13 21C13 14 20 11 27 13C33 15 39 17 44 19C49 21 49 29 43 30.5C35 32 26 31 19 29.5C15 28.5 13 25 13 21Z"/><path d="M40 21C43 15 47 11 51 9L56 13C52 17 48 23 46 29Z"/><path d="M49 7C53 4.5 58 6.5 62 11C63.5 13 62.5 15 60.5 15H54C50.5 15 48 11.5 49 7Z"/><path d="M51 8C49 3 45.5 0 42 0.5C42 4 45 8 49.5 11Z"/><path d="M14 17C12 14.5 11 12.5 11.5 11C13.5 12 15 14 16 16Z"/></g></svg></span></div><div class="pm"><span><b>50</b> %</span><span>0:14</span></div><ul class="ph"><li><span class="okk">✓</span>건물과 지형 불러오기<span class="det">건물 1,842동</span></li><li class="run"><span class="dot"></span>3D 모델 만들기</li><li class="pend"><span class="ring"></span>Rhino 파일에 넣기</li></ul><div class="rnote">Rhino 안에서 만들어 Rhino 화면이 잠깐씩 멈출 수 있습니다.</div></div><div class="logline">▸ 로그 자세히 보기 (1줄)</div></div><p class="note">지금 화면 그대로. 만드는 동안 머리줄 [로그인]은 잠깁니다.</p></div><div class="step"><p class="cap">C3 로딩 · 고급</p><div class="pn"><div class="hd"><span class="logo"></span><span class="wm">Gorani</span><span class="acct"><svg width="18" height="18" viewBox="0 0 16 16" fill="none" stroke="currentColor" stroke-width="1.3"><circle cx="8" cy="8" r="6.6"/><circle cx="8" cy="6.5" r="2.2"/><path d="M4.4 12.4c.9-1.5 2.1-2.3 3.6-2.3s2.7.8 3.6 2.3" stroke-linecap="round"/></svg></span><span class="burger"></span></div><div class="runcard"><div class="top"><h4>3D 모델 만드는 중</h4><span class="cancel"><i></i>취소</span></div><div class="meta">성수동2가 277-17 외 1, 1,234.5 m², 사각형 한 변 1,000 m · 고급 모델</div><div class="trk"><div class="fl" style="width:50%"></div><span class="rn" style="left:calc((100% - 48px) * 0.5)"><svg xmlns="http://www.w3.org/2000/svg" width="48" height="36" viewBox="0 0 64 48"><g fill="none" stroke="currentColor" stroke-linecap="round" stroke-linejoin="round"><path d="M21.00 25.60L15.89 34.19" stroke-width="5"/><path d="M15.89 34.19L2.92 35.15" stroke-width="2.6"/><path d="M41.00 27.60L46.03 35.06" stroke-width="3.6"/><path d="M46.03 35.06L52.74 45.01" stroke-width="2.4"/><path d="M21.00 25.60L14.84 33.48" stroke-width="5"/><path d="M14.84 33.48L2.97 38.77" stroke-width="2.6"/><path d="M41.00 27.60L47.02 34.29" stroke-width="3.6"/><path d="M47.02 34.29L55.05 43.21" stroke-width="2.4"/></g><g fill="currentColor" transform="translate(0 1.60)"><path d="M13 21C13 14 20 11 27 13C33 15 39 17 44 19C49 21 49 29 43 30.5C35 32 26 31 19 29.5C15 28.5 13 25 13 21Z"/><path d="M40 21C43 15 47 11 51 9L56 13C52 17 48 23 46 29Z"/><path d="M49 7C53 4.5 58 6.5 62 11C63.5 13 62.5 15 60.5 15H54C50.5 15 48 11.5 49 7Z"/><path d="M51 8C49 3 45.5 0 42 0.5C42 4 45 8 49.5 11Z"/><path d="M14 17C12 14.5 11 12.5 11.5 11C13.5 12 15 14 16 16Z"/></g></svg></span></div><div class="pm"><span><b>50</b> %</span><span>0:14</span></div><ul class="ph"><li><span class="okk">✓</span>건물과 지형 불러오기<span class="det">건물 1,842동</span></li><li class="run"><span class="dot"></span>3D 모델 만들기</li><li class="pend"><span class="ring"></span>Rhino 파일에 넣기</li></ul><div class="rnote">Rhino 안에서 만들어 Rhino 화면이 잠깐씩 멈출 수 있습니다.</div></div><div class="logline">▸ 로그 자세히 보기 (1줄)</div></div><p class="note">카드 윗줄 끝 '고급 모델'. 기본이면 쓰지 않습니다.</p></div><div class="step"><p class="cap">C4 생성 완료 · 고급</p><div class="pn"><div class="hd"><span class="logo"></span><span class="wm">Gorani</span><span class="acct"><svg width="18" height="18" viewBox="0 0 16 16" fill="none" stroke="currentColor" stroke-width="1.3"><circle cx="8" cy="8" r="6.6"/><circle cx="8" cy="6.5" r="2.2"/><path d="M4.4 12.4c.9-1.5 2.1-2.3 3.6-2.3s2.7.8 3.6 2.3" stroke-linecap="round"/></svg></span><span class="burger"></span></div><div class="card2"><h4>3D 모델 생성 완료 <span class="m">0:08</span><span class="sp"></span><span class="btnw" style="margin:0">폴더 열기</span></h4><div class="m">성수동2가 277-17 외 1, 1,234.5 m² · 고급 모델</div></div><div class="card2"><h4>2D 자료도 만들까요?<span class="sp"></span><span class="btnw" style="margin:0">2D 자료 만들기</span></h4><div class="opt2"><span>▢</span><span>베이스맵<small>Illustrator 레이어 도면 (.ai)</small></span></div><div class="opt2"><span>▦</span><span>다이어그램<small>현황도와 분석도 (.svg, .ai)</small></span></div><div class="opt2"><span>▤</span><span>조서<small>필지와 건축물 표 (엑셀 CSV)</small></span></div></div></div><p class="note">결과 화면은 그대로, 윗줄에 '고급 모델'만.</p></div></div><h2>D. 생성 기록 — 회원만</h2><div class="flow"><div class="step"><p class="cap">D1 손님 · 지도(대상지 없음)</p><div class="pn"><div class="hd"><span class="logo"></span><span class="wm">Gorani</span><span class="login">로그인</span><span class="burger"></span></div><div class="map"></div><div class="tray"><div class="rech">최근 결과<span class="sp"></span></div><div class="rec"><span class="nm">성수동2가 277-17 외 1</span><span class="mt">3D, 2D · 11-14</span></div><div class="rec"><span class="nm">을지로3가 구역</span><span class="mt">3D · 11-14</span></div><div class="rec"><span class="nm">Shibuya, Tokyo</span><span class="mt">3D · 11-10</span></div></div><div class="foot"><span class="mk" style="opacity:.45"><svg width="13" height="13"><use href="#cube"/></svg>3D 모델 만들기</span></div></div><p class="note">손님에게는 생성 기록이 없습니다. '최근 결과'(지금 기능)는 그대로.</p></div><div class="step"><p class="cap">D2 회원 · 지도(대상지 없음)</p><div class="pn"><div class="hd"><span class="logo"></span><span class="wm">Gorani</span><span class="acct"><svg width="18" height="18" viewBox="0 0 16 16" fill="none" stroke="currentColor" stroke-width="1.3"><circle cx="8" cy="8" r="6.6"/><circle cx="8" cy="6.5" r="2.2"/><path d="M4.4 12.4c.9-1.5 2.1-2.3 3.6-2.3s2.7.8 3.6 2.3" stroke-linecap="round"/></svg></span><span class="burger"></span></div><div class="map"></div><div class="tray"><div class="rech">최근 결과<span class="sp"></span><a>생성 기록 ›</a></div><div class="rec"><span class="nm">성수동2가 277-17 외 1</span><span class="mt">3D, 2D · 11-14</span></div><div class="rec"><span class="nm">을지로3가 구역</span><span class="mt">3D · 11-14</span></div><div class="rec"><span class="nm">Shibuya, Tokyo</span><span class="mt">3D · 11-10</span></div></div><div class="foot"><span class="mk" style="opacity:.45"><svg width="13" height="13"><use href="#cube"/></svg>3D 모델 만들기</span></div></div><p class="note">회원에게만 '생성 기록 ›'.</p></div><div class="step"><p class="cap">D3 회원 · 생성 기록</p><div class="pn"><div class="hd"><span class="logo"></span><span class="wm">Gorani</span><span class="acct"><svg width="18" height="18" viewBox="0 0 16 16" fill="none" stroke="currentColor" stroke-width="1.3"><circle cx="8" cy="8" r="6.6"/><circle cx="8" cy="6.5" r="2.2"/><path d="M4.4 12.4c.9-1.5 2.1-2.3 3.6-2.3s2.7.8 3.6 2.3" stroke-linecap="round"/></svg></span><span class="burger"></span></div><div class="scr"><span class="back">← 지도로</span><span class="ttl">생성 기록</span></div><div class="segw" style="margin-top:10px"><span class="seg"><b class="on">전체</b><b>★</b></span></div><div class="grpd">오늘</div><div class="hrow"><span class="th"><i></i></span><span class="tx"><div class="nm">성수동2가 277-17 외 1</div><div class="mt">15:02 · 사각형 1 km · 고급 모델</div></span><span class="st on">★</span></div><div class="hrow"><span class="th"><i></i></span><span class="tx"><div class="nm">을지로3가 구역</div><div class="mt">11:40 · 사각형 2 km</div></span><span class="st">☆</span></div><div class="grpd">이번 주</div><div class="hrow"><span class="th"><i></i></span><span class="tx"><div class="nm">연남동 239-5</div><div class="mt">11-09 · 원 500 m · 고급 모델</div></span><span class="st">☆</span></div><div class="hrow"><span class="th"><i></i></span><span class="tx"><div class="nm">Shibuya, Tokyo</div><div class="mt">11-10 · 사각형 1 km</div></span><span class="st on">★</span></div></div><p class="note">검색 없음. 기록마다 오른쪽 ☆로 즐겨찾기, 위 [전체 | ★]로 거르기. PC 구분 없이 아이디 하나에 모은 기록.</p></div></div><h2>E. 계정</h2><div class="flow"><div class="step"><p class="cap">E1 회원 · 계정 기호를 누르면</p><div class="pn"><div class="hd"><span class="logo"></span><span class="wm">Gorani</span><span class="acct on"><svg width="18" height="18" viewBox="0 0 16 16" fill="none" stroke="currentColor" stroke-width="1.3"><circle cx="8" cy="8" r="6.6"/><circle cx="8" cy="6.5" r="2.2"/><path d="M4.4 12.4c.9-1.5 2.1-2.3 3.6-2.3s2.7.8 3.6 2.3" stroke-linecap="round"/></svg></span><span class="burger"></span></div><div class="map"><i></i></div><div class="tray" style="padding-top:4px"><div class="trow"><span class="lbl">대상지</span><span class="val">성수동2가 277-17 외 1</span><span class="area">1,234.5 m²</span></div><div class="trow"><span class="lbl">범위</span><span class="seg"><b>원</b><b class="on">사각형</b></span><span class="seg"><b>500</b><b class="on">1,000</b><b>2,000</b><b>직접</b></span></div><div class="sec"><span class="t">3D 설정</span><span class="s">원점(0,0), 지형 매끈하게</span><span class="chev"></span></div><div class="trow"><span class="lbl">수준</span><span class="seg"><b class="on">기본</b><b>고급</b></span></div><div class="what"><b>고급</b> + 옥상 파라펫 · 층 구분선 · 노면표시 · 가로수 · 선로 · 옹벽<a>예시 ↗</a></div></div><div class="foot"><span class="mk"><svg width="13" height="13"><use href="#cube"/></svg>3D 모델 만들기</span></div><div class="acpop"><div class="r"><span class="v">name@gmail.com</span><span class="btnw" style="margin:0">로그아웃</span></div><div class="r"><span class="v">생성 기록</span><span class="m">23 ›</span></div></div></div><p class="note">메일·[로그아웃]과 생성 기록. 더보기 메뉴(설정·도움)는 지금과 같습니다.</p></div></div></body></html>
